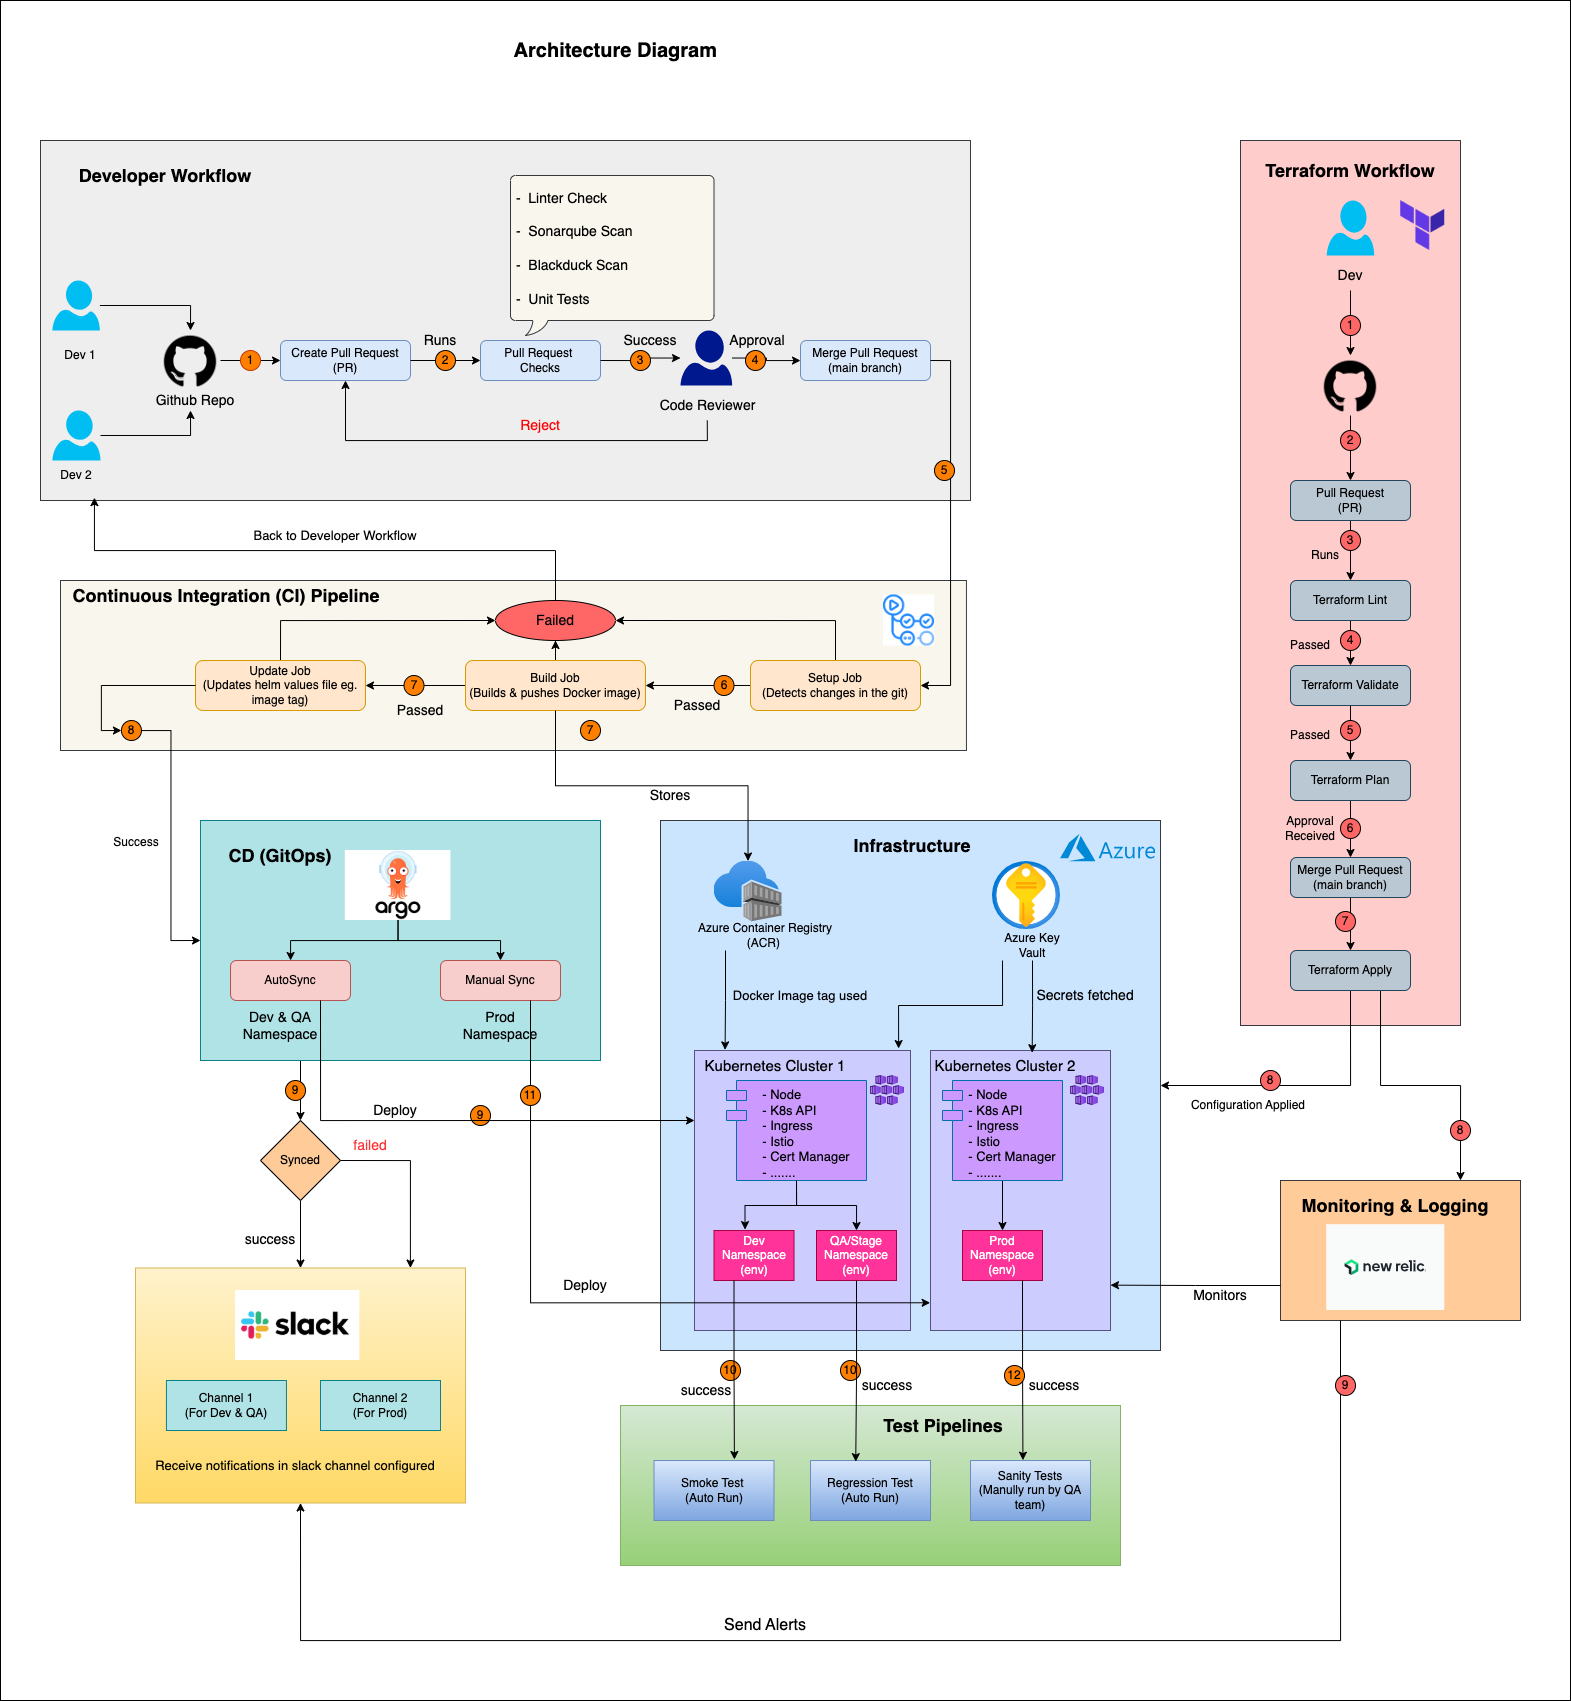
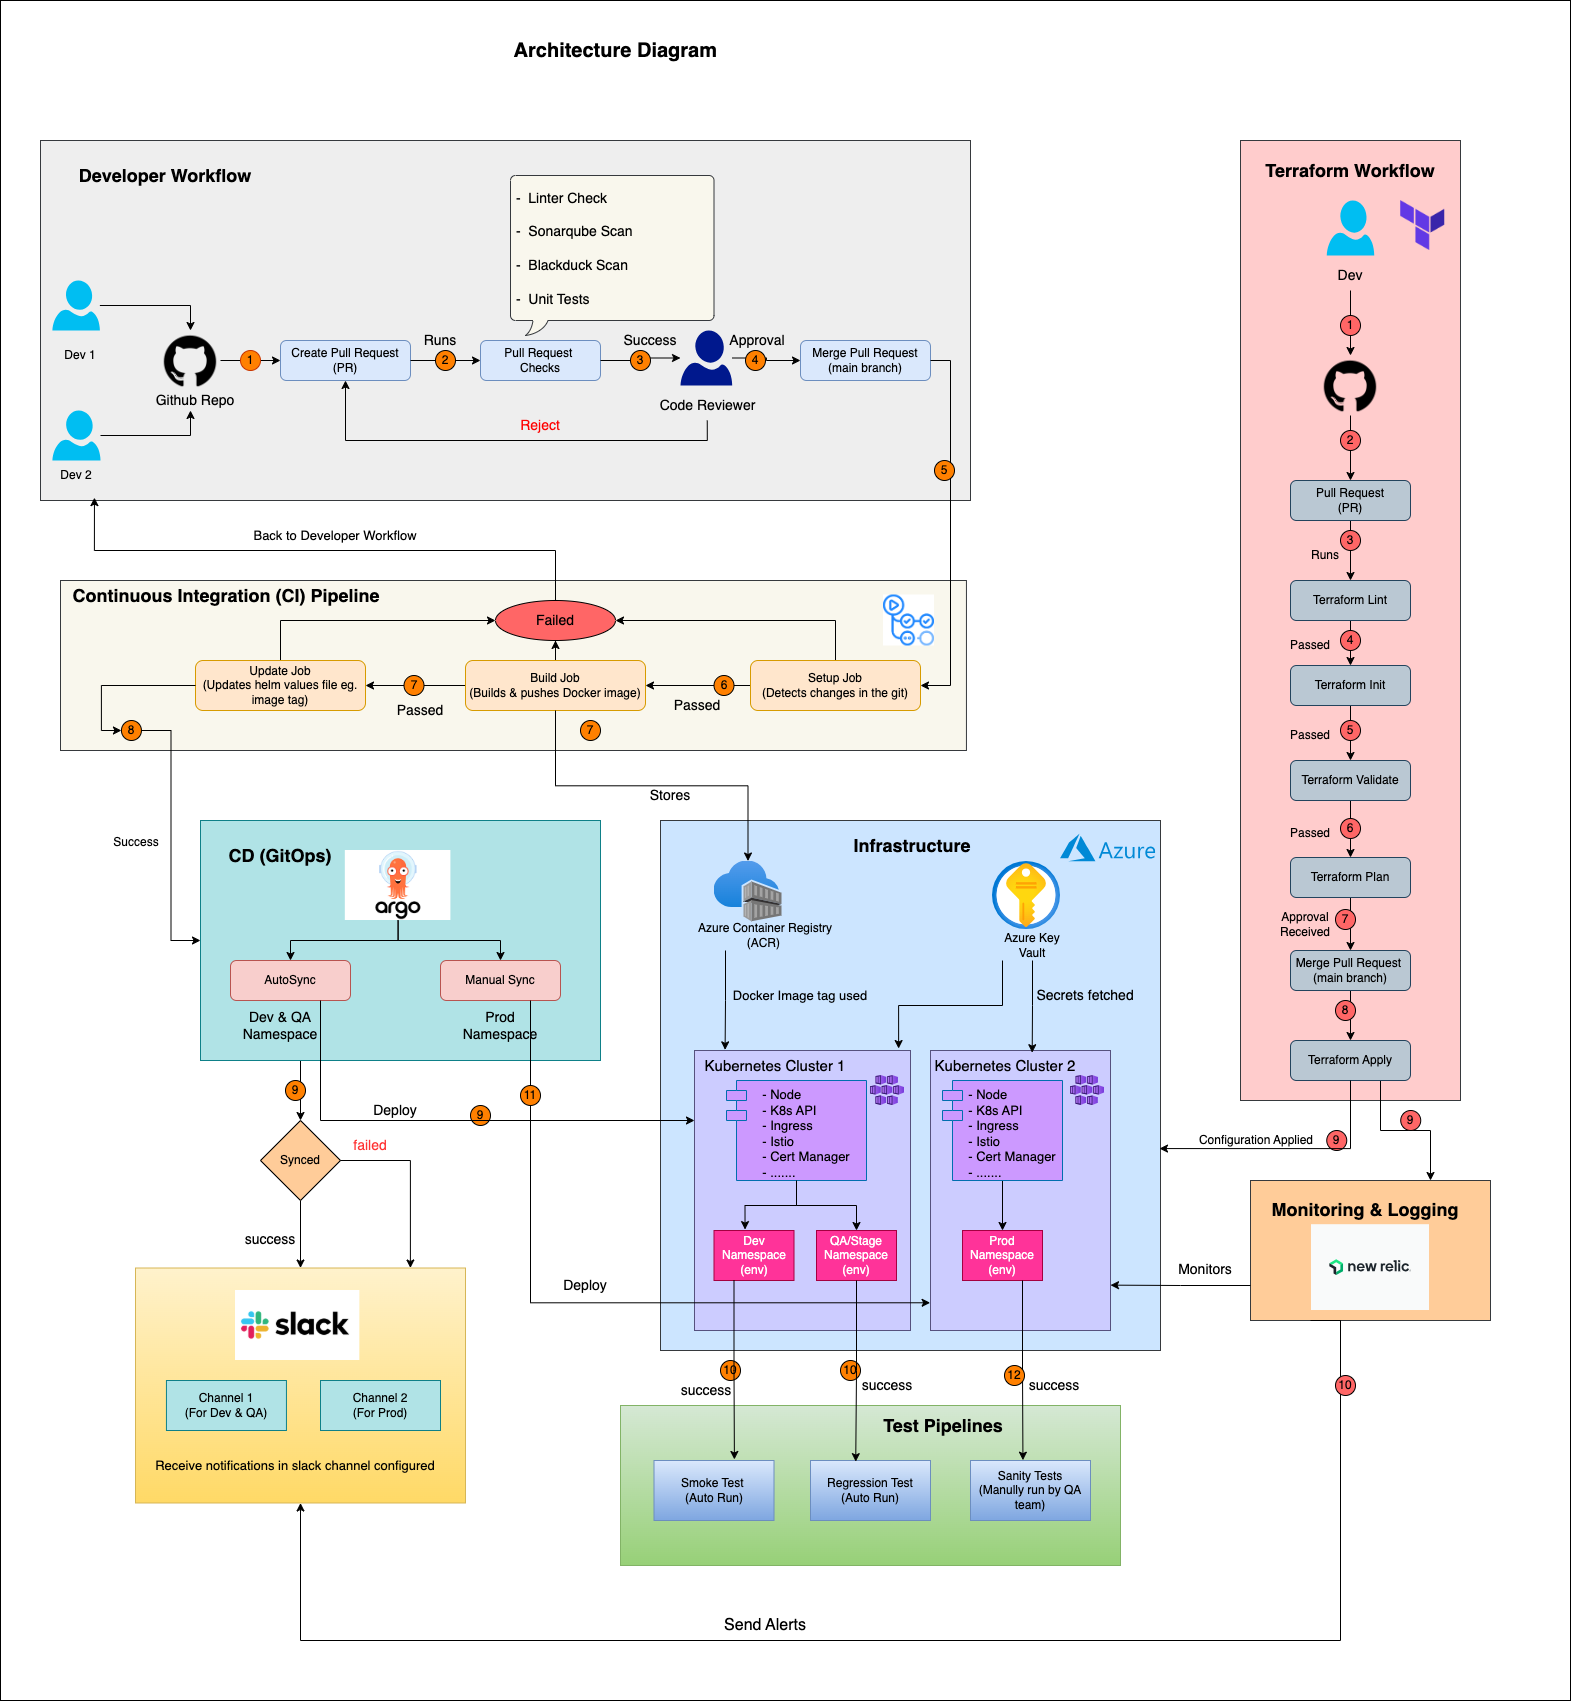
Updated Task2 document with missing information

diff --git a/Task2.md b/Task2.md
@@ -36,7 +36,7 @@ The architecture diagram is shown below
 
 ### 1. **Source Code Access Control**
 
-* **Git Repository Hosting**: GitHub Enterprise with enforced **SSO authentication** and **RBAC (Role-Based Access Control)**.
+* **Git Repository Hosting**: GitHub Enterprise with enforced **SSO authentication** and **Role-Based Access Control (RBAC)**.
 
 * **Branch Protections**:
 
@@ -71,6 +71,46 @@ The architecture diagram is shown below
 * Use tools like **Dependabot** to:
 
   * Automatically detect outdated or vulnerable packages.
+
+---
+
+## Infrastructure Architecture 
+
+The Infrastructure as Code (IaC) is developed using `Terraform` in this architecture.
+
+### Infrastructure Workflow
+
+* **Pull Request**: A feature branch is used to create or update the infrastructure. Once the work is done, a Pull Request is created.
+
+* **Terrform Lint**: TFLint is a Linter used to check for any potential issues or errors. Terrfaform inbuilt has a the format feature `terraform fmt` which can be used to check for issues related to formatting, indentation and alignment.
+
+* **Terraform Init**: This first intialiazes the backend and then the working directory containing configuration files and install plugins for required providers. 
+
+* **Terraform Validate**: It is used to validate the terrform configuration provided such that it approves only for the ones supported by terraform. It points out when certain resource configuration is invalid.
+
+* **Terraform Plan**: This will generate the complete terraform plan showing the changes reflected in the infrastructure creation, updation or deletion.
+
+* **Merge Pull Request**: Approval is provided by reviewer when all the checks on terraform pipeline are green starting from TFLint until Terraform Plan and then merged to `main` branch.
+
+* **Terraform Apply**: When Pull Request is merged, terraform then applies the configuration changes to the Cloud infrastructure.
+
+**Note**: 
+- `Terraform Destroy` is used to destroy the infrastructure created. 
+- Complete infrastrcture can be destroyed with this command and it should be used very carefully.
+
+
+### Azure Infrastructure
+
+The architecture diagram contains following infrastructure components:
+
+* **Azure Container Registry (ACR)**: This is used to store build, store and manage container images and artifacts in a private registry for all types of container deployments. 
+
+* **Azure Key Vault**: This is a cloud service for securely storing ad accessing secrets. A secret is anything such as API keys, passwords or certificates.
+
+* **Azure Kubernetes Service (AKS)**: AKS is a cloud-hosted Kubernetes Cluster that Azure provisions, scales and maintains to run containerized applications for customers.
+
+**Note**: 
+- In the diagram, highlighted only the important infrastructure components. Other Resources can be created in Azure such as virtual machines, Storage containers, databases etc depending on the requirements.  
 
 ---
 
@@ -182,13 +222,66 @@ The architecture diagram is shown below
 
 ## 🚢 Deployment Strategy
 
-### 1. **Release Workflow Diagram**
+###  **Release Workflow Diagram**
 
 Shown below:
 ![Release Flow](./additional-files/images/img8.png)
 
+---
 
-### 2. **Release Deployment Process**
+###  **Production Release Process**
+
+Assuming CI/CD pipelines have successfully passed in both **Development** and **QA** environments, including green results for **smoke** and **regression** tests, the release process to Production can be initiated.
+
+---
+
+#### 🚀 **1. Release Tag Creation**
+
+* A `Release Tag` is **manually created** in GitHub by the **QA** or **DevOps** team member responsible for the release.
+* This tag is used to identify the exact version of the code to be released to Production.
+
+
+#### 🛠 **2. Release Pipeline Execution**
+
+Once the tag is created, the **Release Pipeline** is triggered. This pipeline consists of four sequential jobs:
+
+#### ✅ Setup Job
+
+* Detects and identifies changes in the files or directories within the GitHub repository.
+* Determines whether a new build is necessary based on code changes.
+
+#### 🔧 Build Job
+
+* Builds the containerized application.
+* If the image tag used in the QA environment already exists, the **same tag is reused** for Production.
+* If not, a **new image** is created, built, and pushed to **Azure Container Registry (ACR)**.
+
+#### 🔒 BlackDuck Release Scan
+
+* Performs a **security and license compliance scan** on the container image.
+* Results are sent to the **BlackDuck server** for tracking and can be reviewed via the **BlackDuck dashboard**.
+
+#### ✏ Update Job
+
+* Updates the **image tag** (e.g., GitHub SHA/hash) in the Helm `values.yaml` file to point to the correct version for deployment.
+
+#### 🚢 **3. Deployment to Production**
+
+* Navigate to the **ArgoCD Dashboard**.
+* Manually **sync the application** using the updated Helm values.
+* Upon sync completion (success or failure), **notifications** are automatically sent to the relevant **Slack channel**.
+
+#### 🔍 **4. Manual Sanity Testing**
+
+* After receiving a successful sync notification, the **QA team** conducts **manual sanity checks** in the **Production environment**.
+* These checks validate that **critical paths and core functionality** are working as expected in the live system.
+
+#### 📣 **5. Final Confirmation and Communication**
+
+* Once the QA team gives the **green light**, stakeholders are informed that the release is complete.
+* A **public announcement** is then made, highlighting **new features or updates** now available to customers.
+
+---
 
 ### 3. **Failure Recovery**
 
@@ -196,5 +289,16 @@ Shown below:
 * **Readiness/liveness probes** for pod health
 
 ### 3. **Monitoring & Logging**
+
+* In the architecture diagram, **New Relic** is used for both monitoring and logging.
+* Alerts can be configured in New Relic and send notifications to slack channel when an anomaly is detected.
+* New Relic supports AKS cluster monitoring by providing full observability into health, performance and usage of containerized application and infrastructure.
+* Logging is supported by collecting, parsing, and forwarding logs from AKS including both platform-level logs (like system, kublet, ingress) and application logs (from microservices). 
+
+---
+
+## 📫 Contact
+
+For any issues or questions, feel free to open an issue in the repo.
 
 ---
